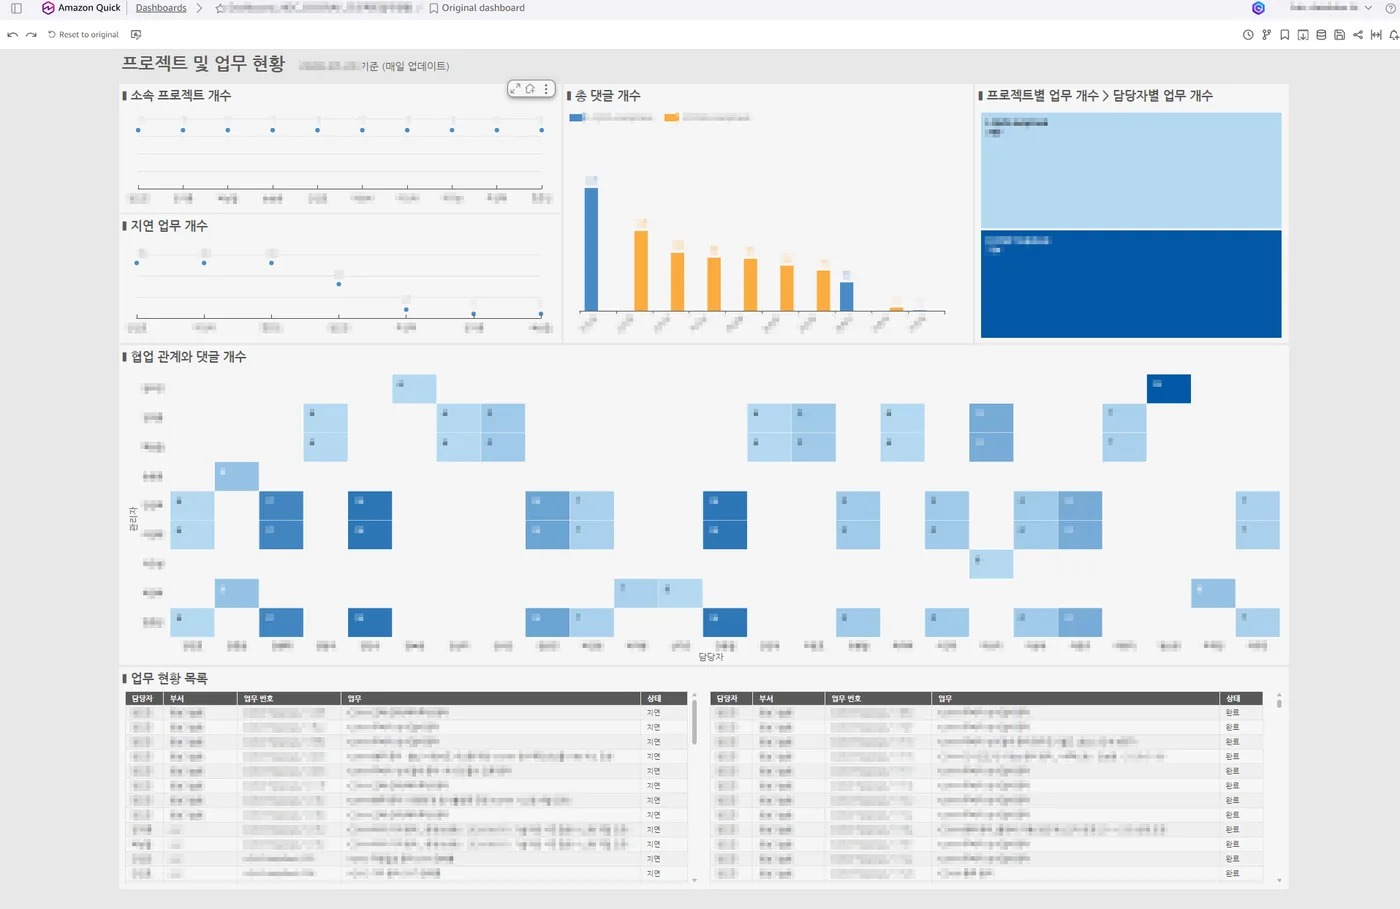
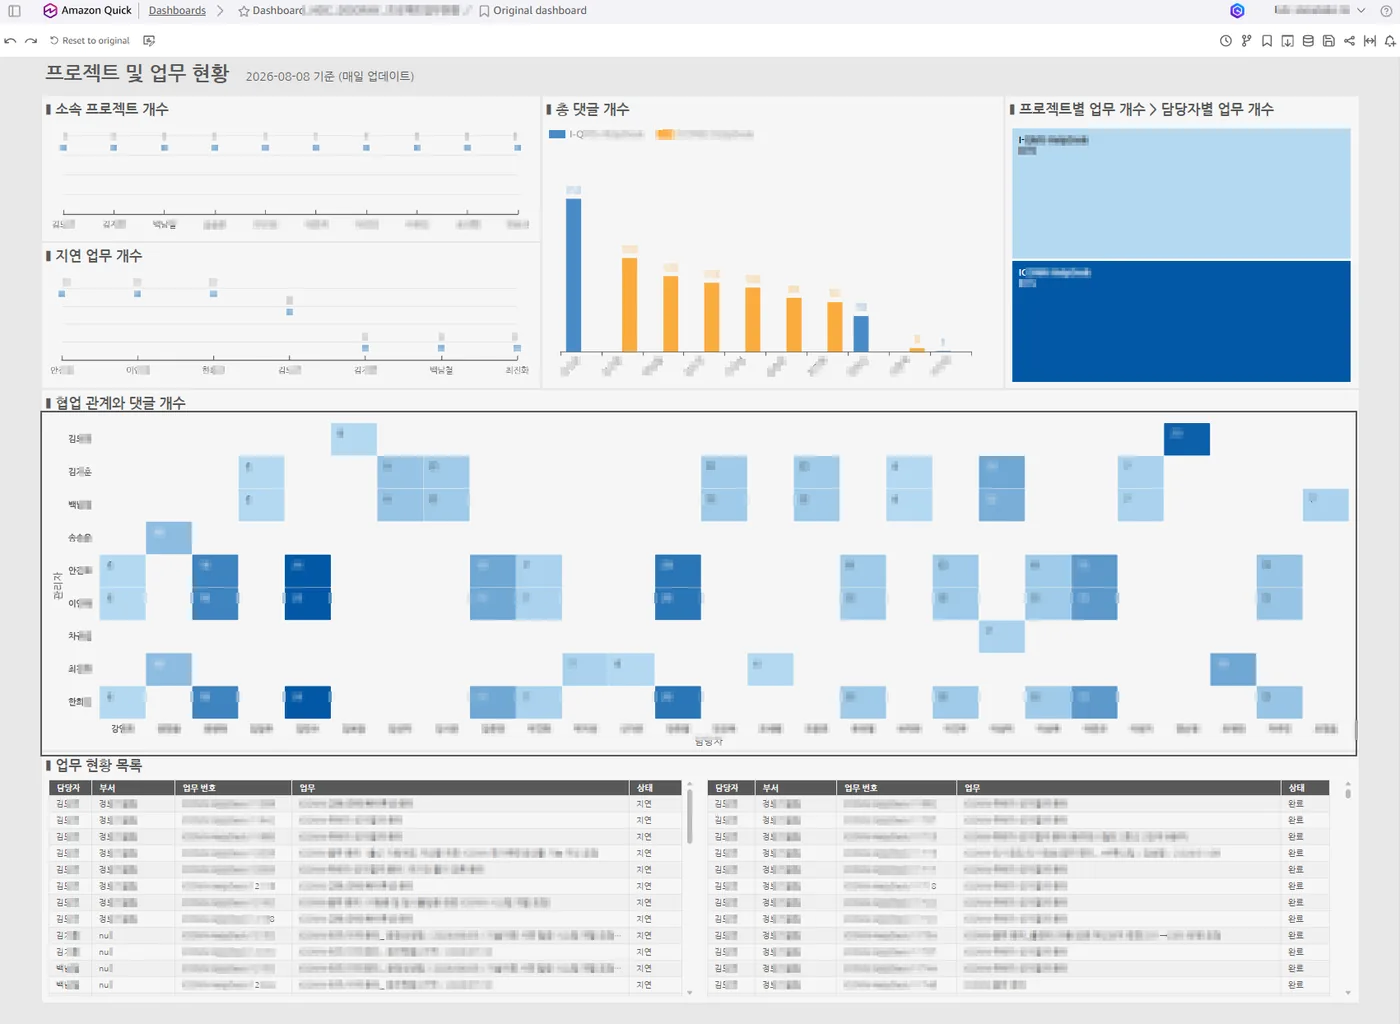
deploy: 랜딩 갱신 (career-automation 28cff21)

diff --git a/index.html b/index.html
@@ -102,7 +102,7 @@
       <img class="is-active fit-stretch-x" src="assets/screens/halo-overview.webp" data-cap="Career Overview · 직접 운영 중인 커리어 대시보드" alt="직접 운영 중인 커리어 대시보드 Overview 화면 — 프로젝트 수·경력·빌드 활동·역량 분포 차트" loading="eager" width="1400" height="737">
       <img class="fit-crop-bottom" src="assets/screens/screen-11.webp" data-cap="조직 인원 추이 · 월별 인건비·입퇴사 대시보드" alt="조직 인원 추이를 꺾은선·막대로 보여주는 운영 대시보드 — 수치는 가림 처리" loading="eager" width="1917" height="1073">
       <img class="fit-stretch-x" src="assets/screens/screen-15.webp" data-cap="글로벌 매출 분포 · 지도·랭킹 뷰 (로드쇼 데모 데이터)" alt="세계 지도 위에 매출 규모를 버블로 얹고 기업별 순위를 막대로 정렬한 대시보드 — 로드쇼 발표용 데모 데이터" loading="lazy" width="1029" height="402">
-      <img class="fit-stretch-x" src="assets/screens/screen-04.webp" data-cap="프로젝트·업무 현황 · 관계 히트맵" alt="프로젝트와 업무 개수를 막대·히트맵 그리드로 보여주는 현황 대시보드 — 수치는 가림 처리" loading="lazy" width="1915" height="1243">
+      <img class="fit-stretch-x" src="assets/screens/screen-04.webp" data-cap="프로젝트·업무 현황 · 관계 히트맵" alt="프로젝트와 업무 개수를 막대·히트맵 그리드로 보여주는 현황 대시보드 — 수치는 가림 처리" loading="lazy" width="1701" height="1244">
       <img class="fit-stretch-x" src="assets/screens/screen-19.webp" data-cap="위성 영상 분석 · 멀티스펙트럼 타일 뷰" alt="위성 멀티스펙트럼 영상을 타일로 배치한 분석 화면" loading="lazy" width="839" height="525">
       <img class="fit-crop-bottom" src="assets/screens/screen-14.webp" data-cap="HR 현황 · 인원·연봉·직급 분포" alt="인원·평균 연봉·직급·세대 분포를 도넛·막대로 보여주는 HR 대시보드 — 수치는 가림 처리" loading="lazy" width="1904" height="1076">
       <img class="fit-width-natural" src="assets/screens/screen-16.webp" data-cap="산업별 운영 대시보드 · 통신 · 제조 · 모빌리티 · 환경" alt="여러 산업 도메인의 대시보드 화면 모음" loading="lazy" width="1329" height="535">
@@ -340,7 +340,7 @@
 
   <div class="ca-foot-id">
     <span class="glyph"></span><b>Halo</b> · 김소율(서로)
-    <small>Built 2026-08-07</small>
+    <small>Built 2026-08-09</small>
   </div>
 </footer>
 

diff --git a/en/index.html b/en/index.html
@@ -102,7 +102,7 @@
       <img class="is-active fit-stretch-x" src="../assets/screens/halo-overview.webp" data-cap="Career Overview · the career dashboard I run myself" alt="Overview screen of the career dashboard I operate — project counts, experience, build activity, and capability distribution charts" loading="eager" width="1400" height="737">
       <img class="fit-crop-bottom" src="../assets/screens/screen-11.webp" data-cap="Headcount trend · monthly payroll and joiner/leaver dashboard" alt="Operations dashboard showing headcount trends as lines and bars — figures are masked" loading="eager" width="1917" height="1073">
       <img class="fit-stretch-x" src="../assets/screens/screen-15.webp" data-cap="Global revenue distribution · map and ranking view (roadshow demo data)" alt="Dashboard placing revenue volume as bubbles on a world map with sample company rankings sorted as bars — roadshow demo data" loading="lazy" width="1029" height="402">
-      <img class="fit-stretch-x" src="../assets/screens/screen-04.webp" data-cap="Project and task status · relationship heatmap" alt="Status dashboard showing project and task counts as bars and a heatmap grid — figures are masked" loading="lazy" width="1915" height="1243">
+      <img class="fit-stretch-x" src="../assets/screens/screen-04.webp" data-cap="Project and task status · relationship heatmap" alt="Status dashboard showing project and task counts as bars and a heatmap grid — figures are masked" loading="lazy" width="1701" height="1244">
       <img class="fit-stretch-x" src="../assets/screens/screen-19.webp" data-cap="Satellite imagery analysis · multispectral tile view" alt="Analysis screen arranging multispectral satellite imagery as tiles" loading="lazy" width="839" height="525">
       <img class="fit-crop-bottom" src="../assets/screens/screen-14.webp" data-cap="HR status · headcount, salary, and job level distribution" alt="HR dashboard showing headcount, average salary, job level, and generation distribution as donuts and bars — figures are masked" loading="lazy" width="1904" height="1076">
       <img class="fit-width-natural" src="../assets/screens/screen-16.webp" data-cap="Operations dashboards by industry · telecom · manufacturing · mobility · environment" alt="Collection of dashboard screens across several industry domains" loading="lazy" width="1329" height="535">
@@ -340,7 +340,7 @@
 
   <div class="ca-foot-id">
     <span class="glyph"></span><b>Halo</b> · Soyoul Kim (Seoro)
-    <small>Built 2026-08-07</small>
+    <small>Built 2026-08-09</small>
   </div>
 </footer>
 
